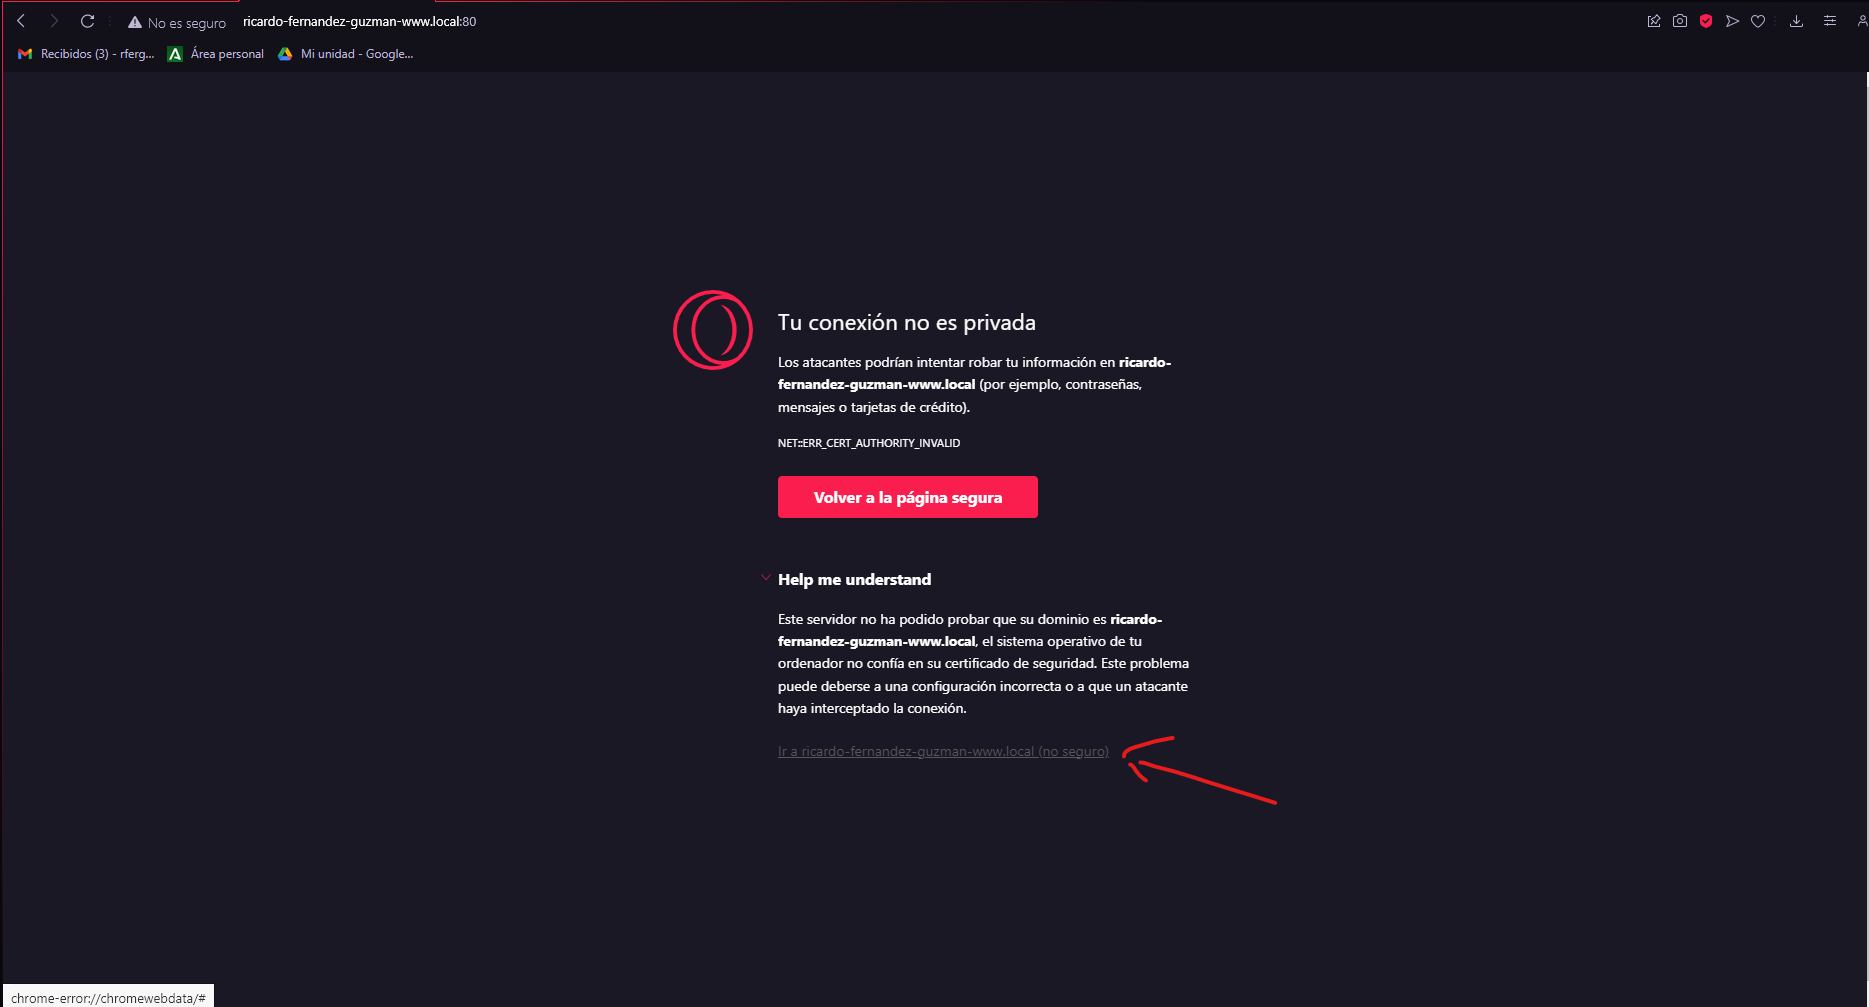
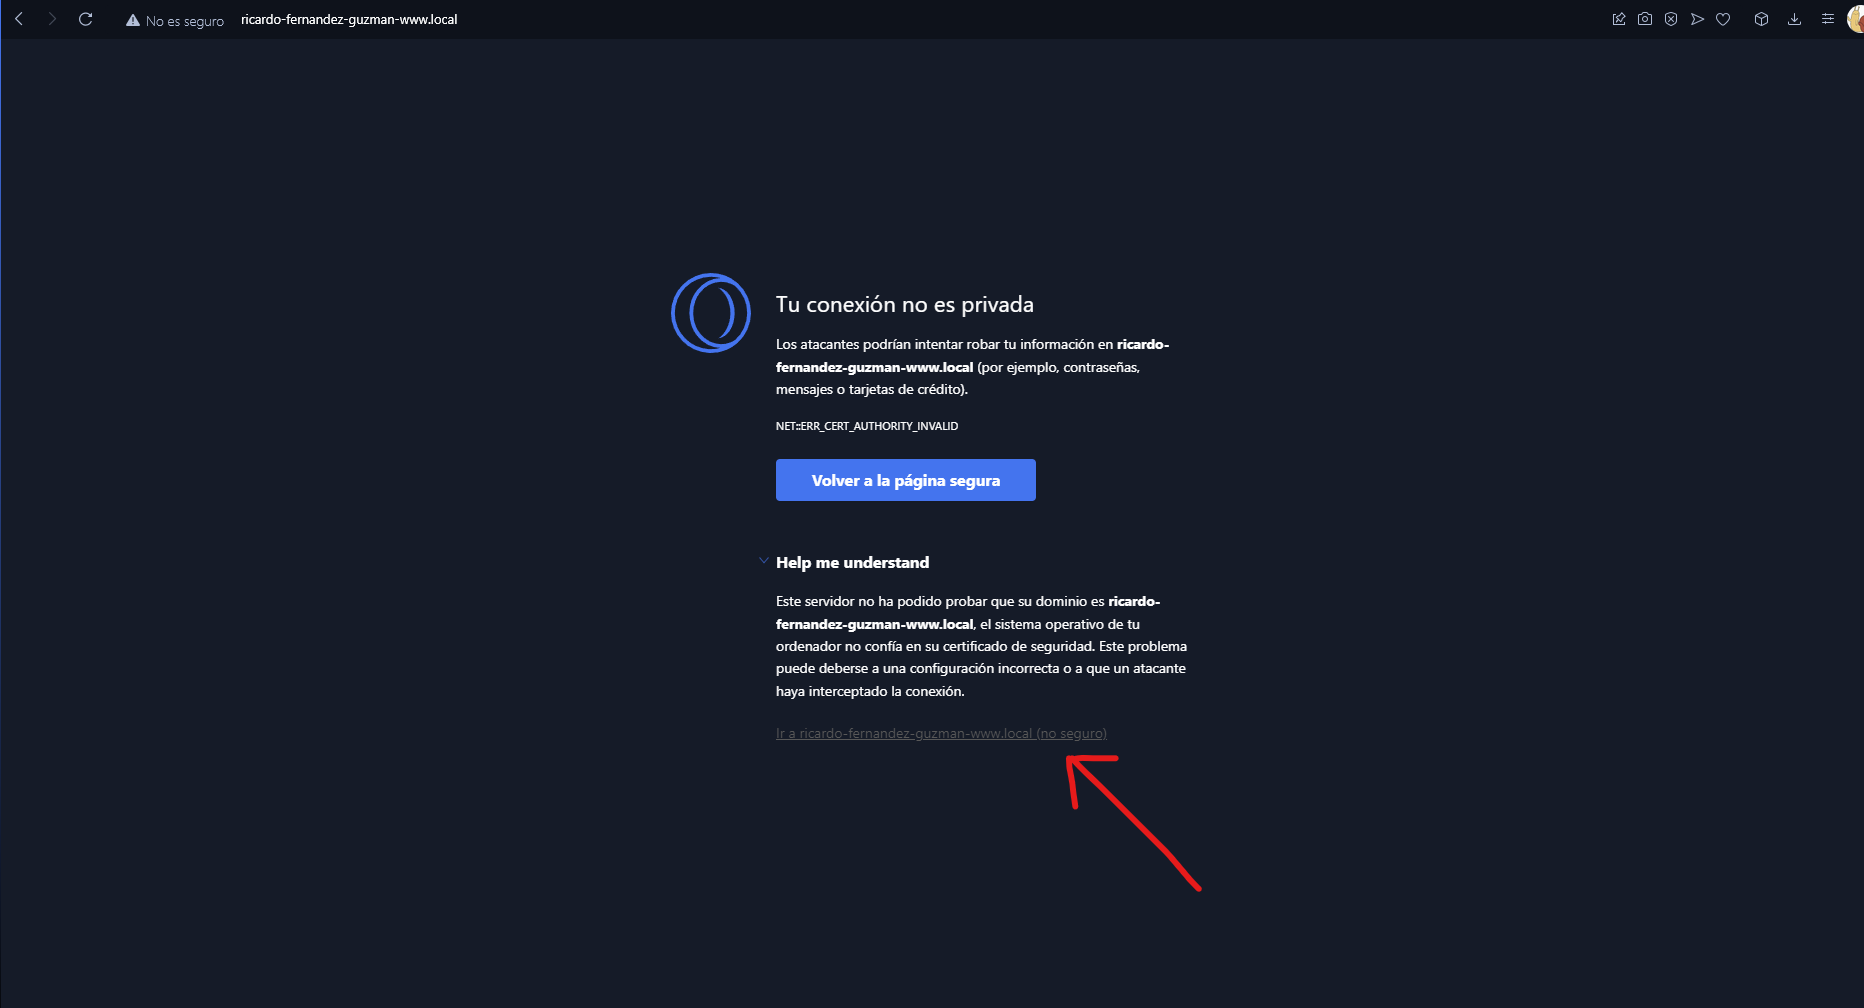
Corrección fallo en la documentación de certificados

diff --git a/README.md b/README.md
@@ -156,6 +156,8 @@ docker-compose restart
 ```
 A continuación ya se deberia de poder acceder utilizando las siguientes URLs
 
+![dockerReinicio](docs/images/dockerReinicio.png)
+
 http://ricardo-fernandez-guzman-www.local
 
 ![www.local](docs/images/imagen4.png)
@@ -339,27 +341,75 @@ Para organizar un poco esto, la estructura de mi carpetas de certificados sería
 ![EstructuraCert](docs/images/imagen33.png)
 
 ### 2. Configurar para el protocolo HTTPS
-A continuación, para cada archivo de configuración añadimos una regla nueva justo después de la etiqueta *Directory* para que se verifique se usa el certificado y permita direcciones HTTPS
+A continuación, para cada archivo de configuración añadimos una regla nueva justo después de la  que ya teniamos especificada para que verifique se usa el certificado y permita direcciones HTTPS por el puerto 443:
 
 [**Para ricardo-fernandez-guzman-www.local**](apache2-php/conf/00-default.conf)
 ```
-SSLEngine on
-SSLCertificateFile /etc/apache2/ssl/www.crt
-SSLCertificateKeyFile /etc/apache2/ssl/www.key
+<VirtualHost *:443>
+    ServerName ricardo-fernandez-guzman-www.local
+    DocumentRoot /var/www/html
+
+    <Directory /var/www/html>
+        AllowOverride All
+        Require all granted
+    </Directory>
+
+    SSLEngine on
+    SSLCertificateFile /etc/apache2/ssl/www.crt
+    SSLCertificateKeyFile /etc/apache2/ssl/www.key
+</VirtualHost>
 ```
 
 [**Para ricardo-fernandez-guzman-intranet.local**](apache2-php/conf/intranet.conf)
 ```
-SSLEngine on
-SSLCertificateFile /etc/apache2/ssl/intranet.crt
-SSLCertificateKeyFile /etc/apache2/ssl/intranet.key
+<VirtualHost *:443>
+    ServerName alvaro-rodriguez-intranet.local
+    DocumentRoot /var/www/html/intranet
+
+    <Directory /var/www/html/intranet>
+        Options Indexes FollowSymLinks
+        AllowOverride All
+
+        AuthType Basic
+        AuthName "Area Restringida"
+        AuthUserFile /etc/apache2/.htpasswd
+        Require valid-user
+    </Directory>
+
+    SSLEngine on
+    SSLCertificateFile /etc/apache2/ssl/intranet.crt
+    SSLCertificateKeyFile /etc/apache2/ssl/intranet.key
+
+
+</VirtualHost>
 ```
 
 [**Para ricardo-fernandez-guzman-phpmyadmin.local**](apache2-php/conf/ricardo-fernandez-guzman-phpmyadmin.conf)
 ```
-SSLEngine on
-SSLCertificateFile /etc/apache2/ssl/phpmyadmin.crt
-SSLCertificateKeyFile /etc/apache2/ssl/phpmyadmin.key
+<VirtualHost *:443>
+    ServerName ricardo-fernandez-guzman-phpmyadmin.local
+    DocumentRoot /var/www/html/intranet
+    
+    <Location />
+        Options Indexes FollowSymLinks
+        AllowOverride All
+
+        AuthType Basic
+        AuthName "Area Restringida"
+        AuthUserFile /etc/apache2/.htpasswd
+        Require valid-user
+
+    </Location>
+
+    ProxyPreserveHost On
+    ProxyPass / http://phpmyadmin:80/
+    ProxyPassReverse / http://phpmyadmin:80/
+
+    SSLEngine on
+    SSLCertificateFile /etc/apache2/ssl/phpmyadmin.crt
+    SSLCertificateKeyFile /etc/apache2/ssl/phpmyadmin.key
+
+</VirtualHost>
 ```
 
 ### 3. Habilitar Módulo mod_ssl
@@ -377,17 +427,24 @@ El DockerFile ya estaria completamente configurado y podría de verse su estruct
 
 ### 4. Evidencias de ejecución
 
+Ahora si intentamos acceder a cualquiera de los enlaces mediante el protocolo HTTP, saldrá un mensaje de error similar al siguiente, pidiendonos que utilicemos el protocolo HTTPS. En este ejemplo se ha hecho para http://ricardo-fernandez-guzman-www.local
+
+![badRequest](docs/images/badRequest.png)
+
 **Evidencias de ejecución HTTPS para ricardo-fernandez-guzman-www.local**
-De esta forma, si ahora intentamos entrar en la página mediante protocolo seguro HTTPS, nos aparecerá un mensaje de advertencia diciendo que la conexión no es segura. Esto es correcto ya que los certificados los hemos realizado nosotros mismos.
+De esta forma, si ahora intentamos entrar en la página mediante protocolo seguro HTTPS (https://ricardo-fernandez-guzman-www.local), nos aparecerá un mensaje de advertencia diciendo que la conexión no es segura. Esto es correcto ya que los certificados los hemos realizado nosotros mismos.
 
 ![Evidencia-wwww](docs/images/imagen35.png)
+
 
 Para acceder a la página entramos en el enlace "Help me understand" y le damos a que queremos ir a ese enlace:
 
 ![Evidencia-wwww](docs/images/imagen36.png)
 ![Evidencia-wwww](docs/images/imagen37.png)
+![Evidencia-wwww](docs/images/certificado.png)
 
 **Evidencias de ejecución HTTPS para ricardo-fernandez-guzman-intranet.local**
+https://ricardo-fernandez-guzman-intranet.local:8060
 Al igual que como ocurre en el caso anterior nos saldrá el mismo mensaje de advertencia que en el caso anterior. Se realiza el mismo proceso.
 
 ![Evidencia-intranet](docs/images/imagen31.png)
@@ -396,9 +453,11 @@ La diferencia con respecto al anterior y es que, como lo tenemos configurado, cl
 
 ![Evidencia-intranet](docs/images/imagen32.png)
 ![Evidencia-intranet](docs/images/imagen34.png)
+![Evidencia-intranet](docs/images/cetificadoIntranet.png)
 
 **Evidencias de ejecución HTTPS para ricardo-fernandez-guzman-phpmyadmin.local**
-Por último pero no menos importante, probamos la url con el protocolo seguro para el virtual host de phpMyAdmin, y, se tiene configurado bien ocurrire como en los dos anteriores casos y se obtendrá la ventana de advertencia y al hacerlos, tal y como lo hemos configurado se accederá a la página principal de phpMyAdmin, una vez que se haya validado el usuario que intenta ingresar.
+Por último pero no menos importante, probamos la url con el protocolo seguro para el virtual host de phpMyAdmin (https://ricardo-fernandez-guzman-phpmyadmin.local), y, se tiene configurado bien ocurrire como en los dos anteriores casos y se obtendrá la ventana de advertencia y al hacerlos, tal y como lo hemos configurado se accederá a la página principal de phpMyAdmin, una vez que se haya validado el usuario que intenta ingresar.
 
 ![Evidencia-php](docs/images/imagen38.png)
 ![Evidencia-php](docs/images/imagen39.png)
+![Evidencia-php](docs/images/certificadophp.png)
